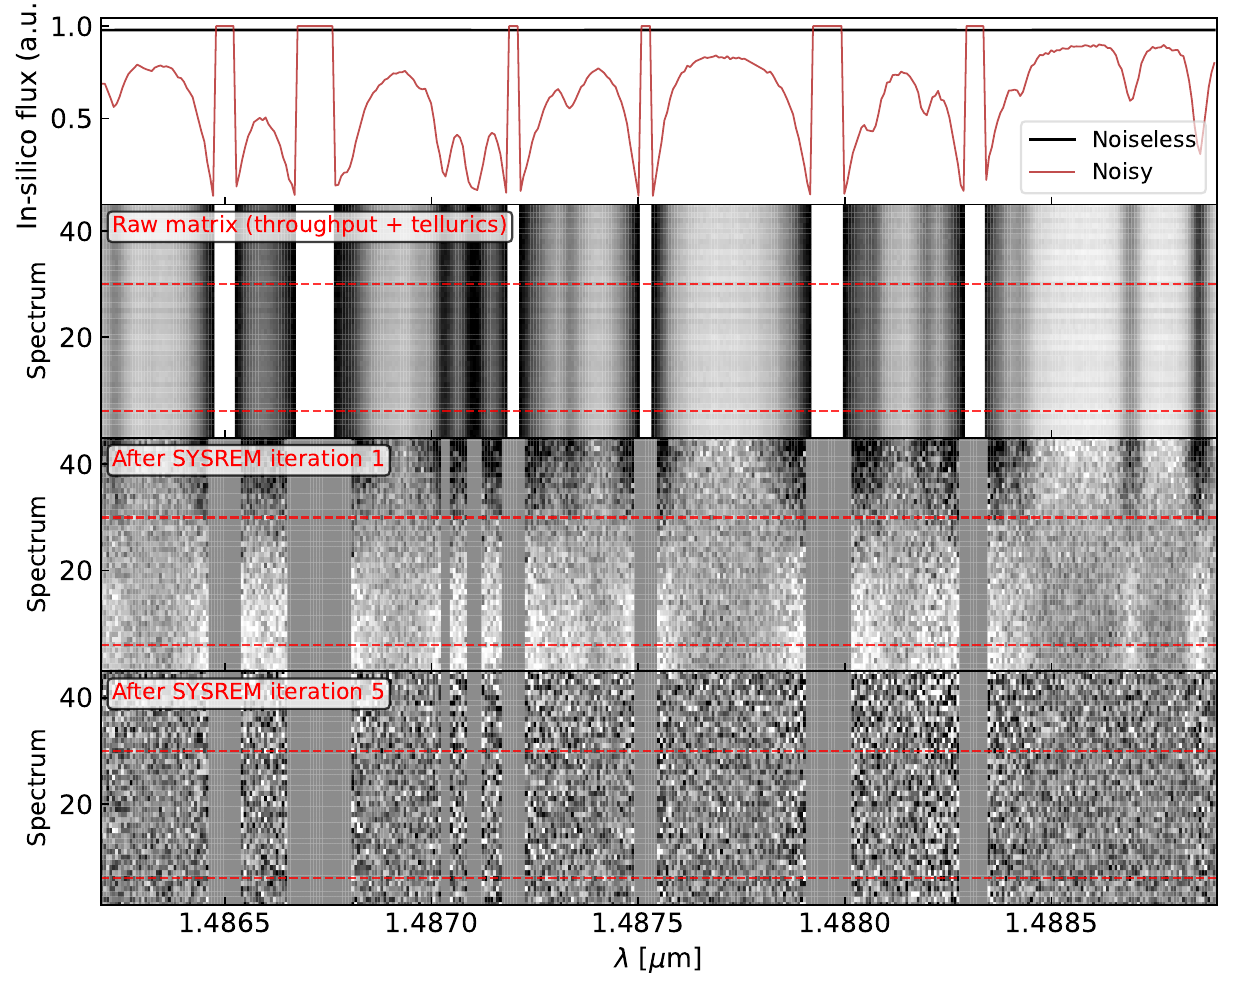
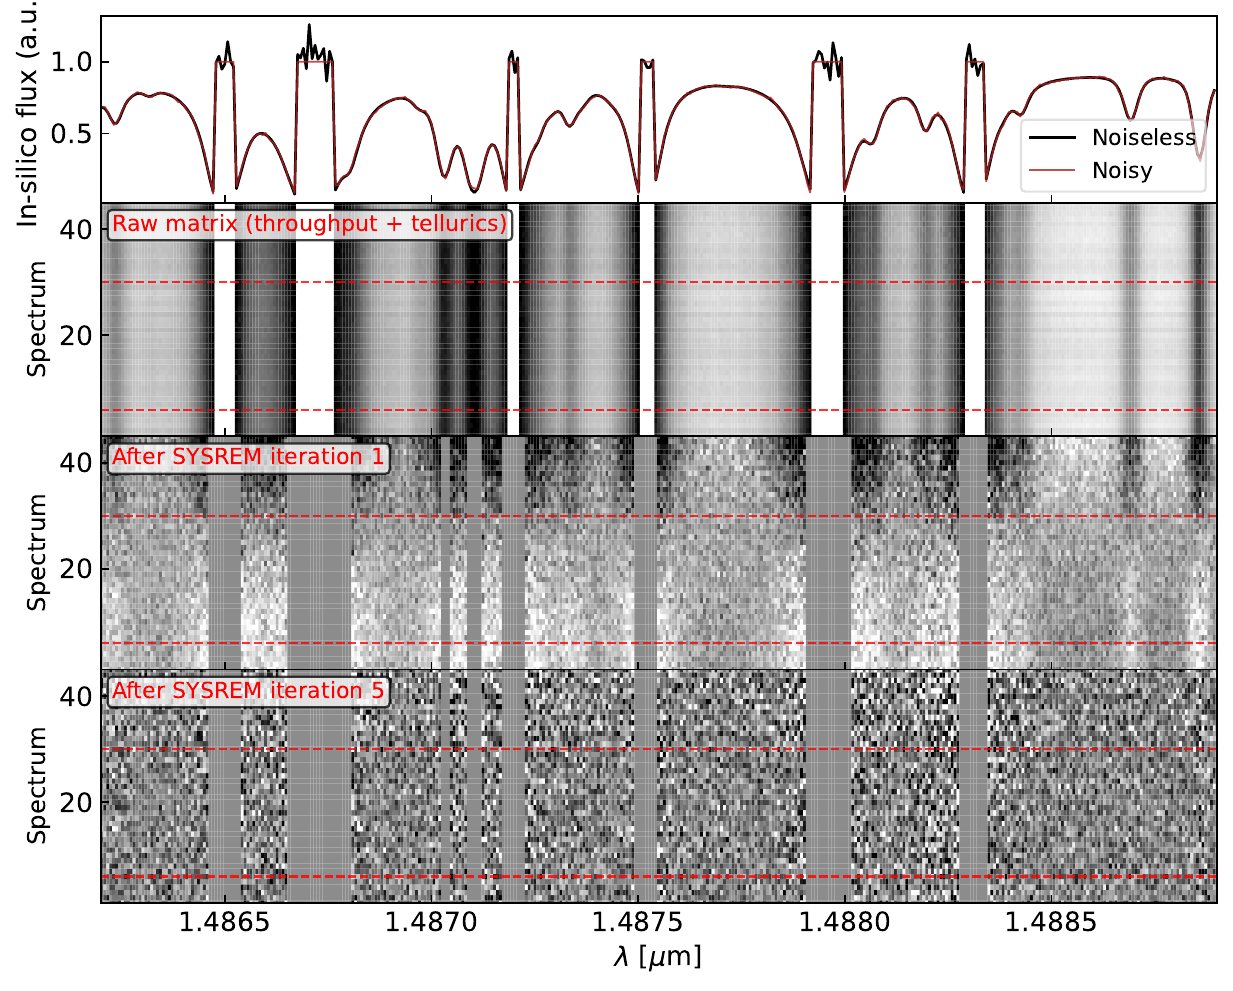
Fix pipeline-steps noiseless panel to plot the deterministic observed matrix

diff --git a/src/exoplore/core/simulator.py b/src/exoplore/core/simulator.py
@@ -2755,6 +2755,14 @@ class ExoploreSimulator:
             # Update per-order results with Block 5 + Block 6 outputs
             _order_result.update({
                 "mat_noise":    _mat_noise_b5,
+                # Deterministic noiseless observed matrix (mat_noise minus the
+                # Gaussian draw), i.e. the same data without noise, for the
+                # pipeline-steps diagnostic.
+                "mat_noiseless_obs": (
+                    _mat_noise_b5 - _gauss_noise_b5
+                    if (not cfg.observation.noiseless
+                        and not cfg.observation.use_real_data)
+                    else _mat_noise_b5),
                 "std_noise":    _std_noise_b5,
                 "mat_res":      _mat_res_b5,
                 "propag_noise": _propag_noise_b5,
@@ -2797,7 +2805,7 @@ class ExoploreSimulator:
             _wave_steps = _or_steps["wave_ins"]
             _usp_steps  = np.where(
                 _useful_spectral_points_store[0, _h_steps, :])[0]
-            _mn_steps = _or_steps.get("spec_mat")
+            _mn_steps = _or_steps.get("mat_noiseless_obs")
             _my_steps = _or_steps.get("mat_noise")
             _mr_steps = _or_steps.get("mat_res")
             if (_mn_steps is not None and _my_steps is not None
